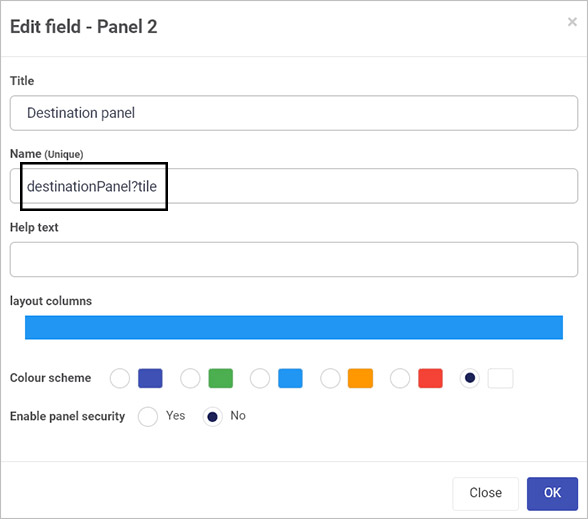
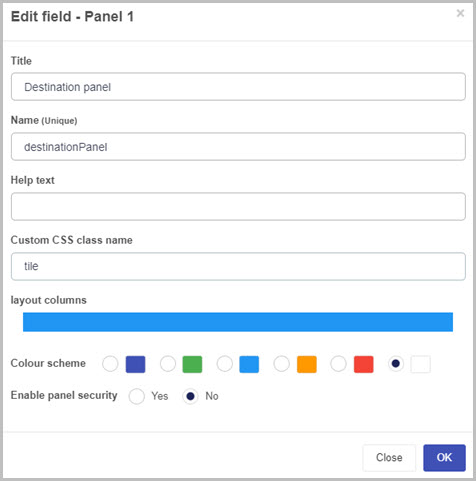
Globl css update - Need to go back over pink button styling

Changed region(s): [[0.0, 0.0, 1.0, 0.9979], [0.8235, 0.7484, 0.8529, 0.7796]]

diff --git a/content/docs/low-code/global-css.md b/content/docs/low-code/global-css.md
@@ -11,7 +11,7 @@ Within Kianda there is standard site-wide Cascading Style Sheets (CSS) that form
 You can use the file to **target** very specific details, for example a button in a particular process as shown below. This code will create specific styling for a button that is defined in a form in a process using Kianda **Designer**.
 
 ```css
-div[data-name="btn_user_manager_approve"], div[data-name="btn_approve"]{
+.buttonWhite{
     color: white;
     background-color: black;
     padding-bottom: 1px;
@@ -47,12 +47,12 @@ Bootstrap has released a **library** that can be imported into Adobe XD that all
 
 The **mock**-**up** was then used as a plan to **create** **this** **process**. You don’t have to create processes or workspaces exactly the same as the mock-ups to create during the **planning** **stage**, but they act as a great **reference** and allow you to have a **solid** **foundation** to build off of whilst still being able to **deviate** from the **design** when the need arises. Go to [Create your first Kianda process](/docs/getting-started/create-first-process/) for advice and tips on planning processes. To help you in planning your CSS design, see the sections below.
 
-### Effective use of CSS classes
+### Effective use of CSS classes in Kianda
 
-Although you may be familiar with the concept of using **CSS** **classes** to apply styling to several methods, you may not be familiar with the concept of using the **name** **field** of a Kianda element to **instantly** **apply** **styes** to that element that you have already developed. Within the **global** **CSS** file, we can create **style** **rules** and have them to apply to any **data**-**name** that contains a name that we precede with a **question** **mark**.
+You may be familiar with the concept of using **CSS** **classes** to apply styling to several elements, Kianda works on the same premises. Simply define a class within the Global CSS file, put some styling into the class and finally apply the same class to a Kianda element.
 
 ```css
-div[data-name$="?tile"].form-group{
+.tile {
      border-radius: 12px;
      border: 1px solid #e7eaee;
      background: white;
@@ -63,23 +63,23 @@ div[data-name$="?tile"].form-group{
 }
 ```
 
-It is good practice to use **relevant** and **descriptive** names for these style rules. In the example above we have a “?tile” section with styling rules to style an element to that the **appearance** of a tile.
+It is good practice to use **relevant** and **descriptive** names for these style rules. In the example above we have a “tile” section with styling rules to style an element to that the **appearance** of a tile.
 
-We can then add "**?tile**" to the end of the name of any form **element** for example a panel that we want to take the apply that **appearance** to.
+When your class style is defined and ready to apply, add "**tile**" in the **Custom CSS class name** field of any Kianda **element** you want to take the apply that **appearance** to.
 
-![Tile example in a panel](/images/destination-panel-tile.jpg)
+![Tile example in a panel](/images/destination-panel-tile2.jpg)
 
-In the image below “**?tile**” was used to style these two panels into two **tiles** aligned **side** **by** **side**. 
+In the image below “**tile**” was used to style these two panels into two **tiles** aligned **side** **by** **side**. 
 
 ![Table styling example](/images/table-styling-customised.png)
 
 The benefit of this method is that styles can be **created** **once** and very quickly applied to **elements** anywhere in your Kianda platform. This saves process designers having to revisit the **CSS** **file** every time they are creating a new process or dashboard.
 
 #### Small touches example
-Here is another example of that demonstrates how you can create a **defined** and **recognizable** design without bloating the visuals of your workspace. In this example the below a style rule is used to add a gold underline to the **header** **titles** of processes to separate the title of the page and the specific course you are currently viewing. 
+Here is another example of that demonstrates how you can create a **defined** and **recognizable** design without bloating the visuals of your workspace. In this example the below style rule is used to add a gold underline to the **header** **titles** of processes to separate the title of the page and the specific course you are currently viewing. 
 
 ```css
-div[data-name$="?headerTitle"]:not(.is-design) .header-prefix {
+.headerTitle {
   font-size: medium;
   text-transform: uppercase;
   color: #004B8B
@@ -213,7 +213,7 @@ Remember additional items can be added to the file whenever you wish. Best pract
 For example, if you have a button in a process and you want to change background colour and text colour, first you need to note down the **Unique Name.** Next, because you only want to target the button in a specific process and not all buttons in the system, use the **Element and attribute** selector. This will take the form of: 
 
 ```css
-button[data-name$="?pinkButton"]:not(.is-design) {}
+.pinkButton {}
 ```
 
 1. Within the **Global CSS File** add the necessary details, for example the above along with the necessary CSS properties, for example:
